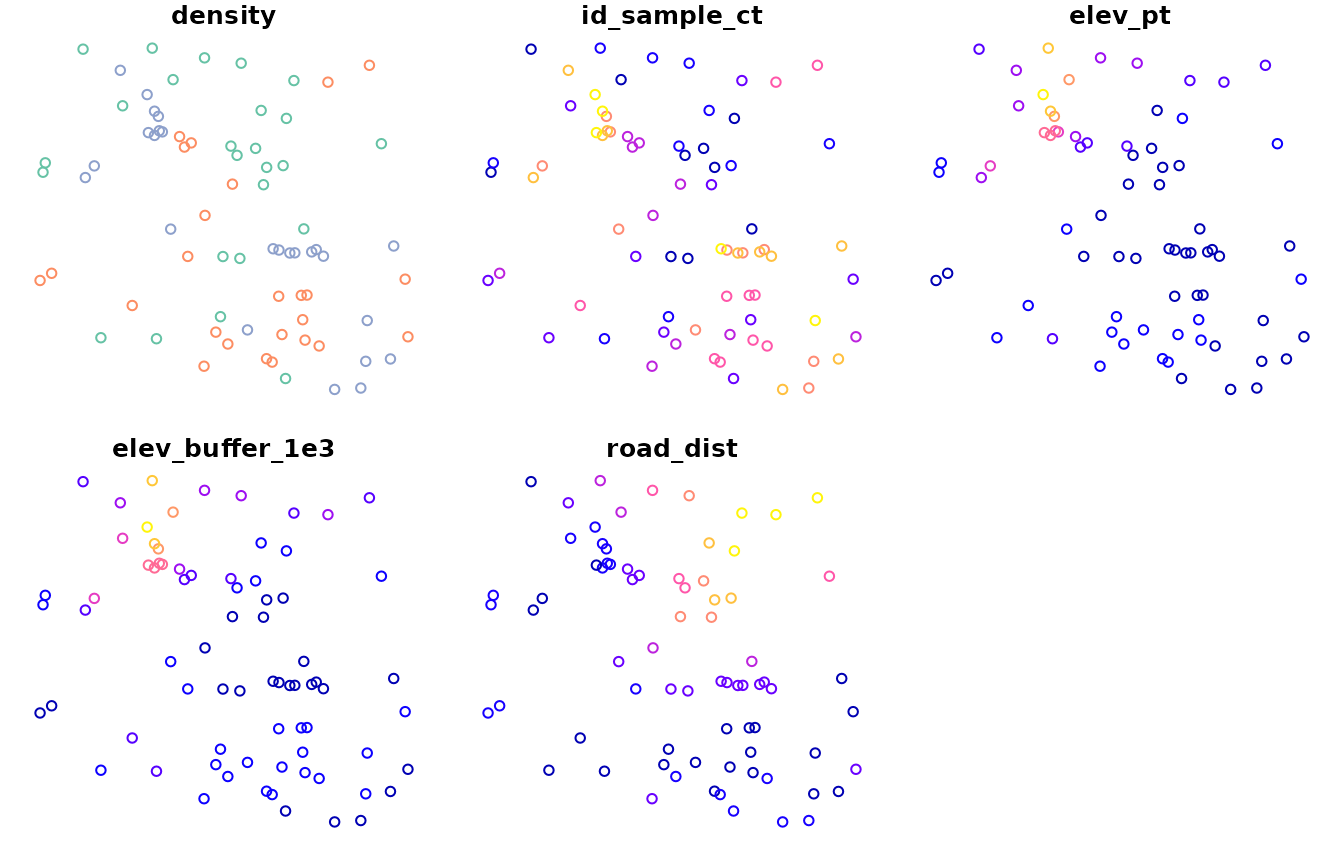
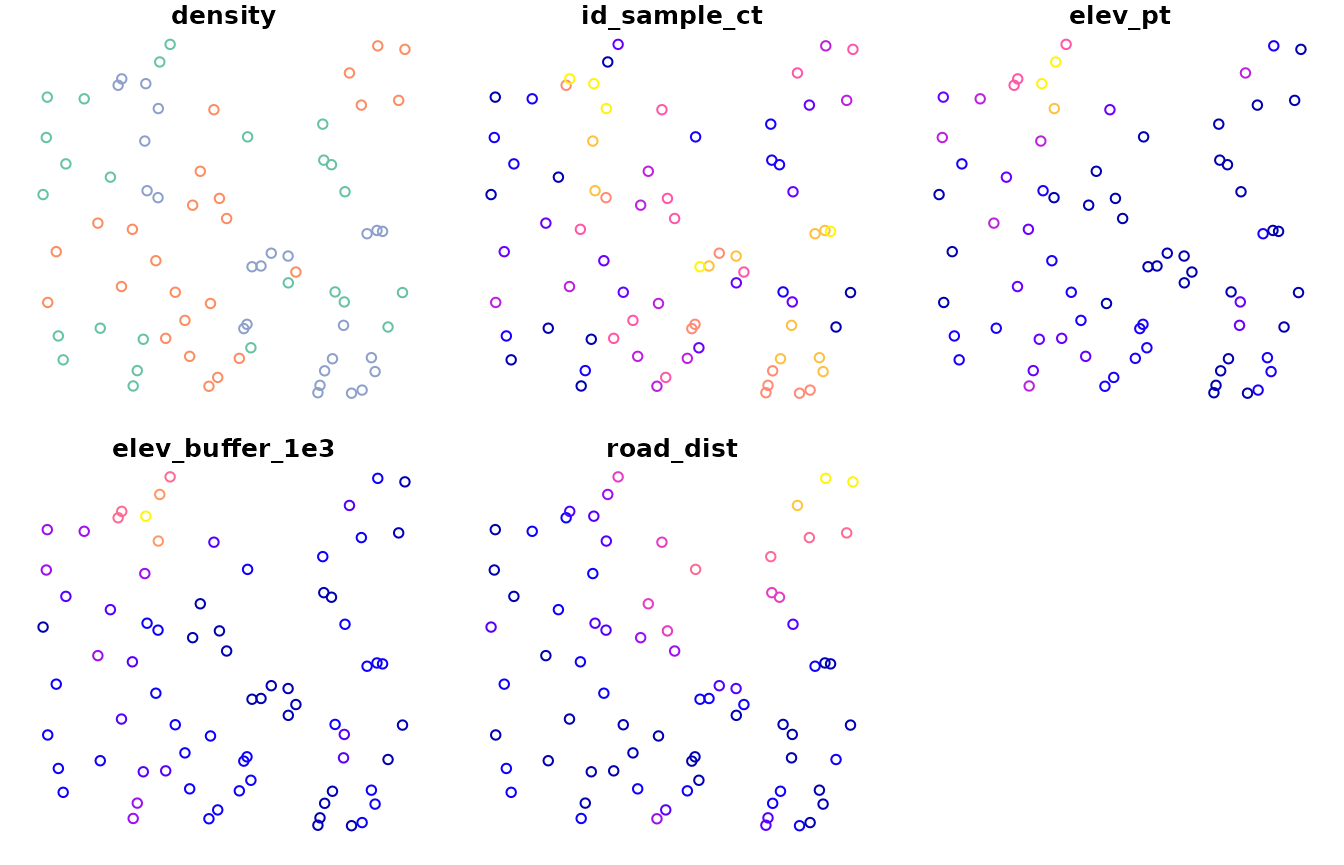
Deploying to gh-pages from @ robitalec/camtrapmonitoring@f2aa02580bea266181a167c2fda2fa1d0f5523f8 🚀

diff --git a/articles/intro-camtrapmonitoring.html b/articles/intro-camtrapmonitoring.html
@@ -279,33 +279,34 @@ and sorting candidate locations.</p>
 <span></span>
 <span><span class="va">order_select_pts</span> <span class="op">&lt;-</span> <span class="va">select_pts</span><span class="op">[</span><span class="va">ordered</span>,<span class="op">]</span></span>
 <span><span class="fu"><a href="https://rdrr.io/r/base/print.html" class="external-link">print</a></span><span class="op">(</span><span class="va">order_select_pts</span><span class="op">)</span></span>
-<span><span class="co">#&gt; Simple feature collection with 10 features and 8 fields</span></span>
+<span><span class="co">#&gt; Simple feature collection with 19 features and 8 fields</span></span>
 <span><span class="co">#&gt; Geometry type: POINT</span></span>
 <span><span class="co">#&gt; Dimension:     XY</span></span>
-<span><span class="co">#&gt; Bounding box:  xmin: 344748.9 ymin: 5978689 xmax: 373105.1 ymax: 5996332</span></span>
+<span><span class="co">#&gt; Bounding box:  xmin: 345435.6 ymin: 5975880 xmax: 374851.2 ymax: 6002167</span></span>
 <span><span class="co">#&gt; Projected CRS: WGS 84 / UTM zone 14N</span></span>
+<span><span class="co">#&gt; First 10 features:</span></span>
 <span><span class="co">#&gt;    density                 geometry id_sample_ct elev_pt elev_buffer_1e3</span></span>
-<span><span class="co">#&gt; 53     Low POINT (348600.8 5996332)           53     294        293.2693</span></span>
-<span><span class="co">#&gt; 67     Low POINT (347790.8 5995277)           67     285        278.3091</span></span>
-<span><span class="co">#&gt; 17    High POINT (354212.5 5980729)           17     273        274.8169</span></span>
-<span><span class="co">#&gt; 37  Medium POINT (344748.9 5986636)           37     260        259.6427</span></span>
-<span><span class="co">#&gt; 21    High POINT (349196.8 5980819)           21     267        265.2883</span></span>
-<span><span class="co">#&gt; 30  Medium POINT (359572.2 5981323)           30     268        264.1549</span></span>
-<span><span class="co">#&gt; 52     Low POINT (362429.5 5981525)           52     264        265.0350</span></span>
-<span><span class="co">#&gt; 29  Medium POINT (367415.1 5982445)           29     270        268.4580</span></span>
-<span><span class="co">#&gt; 54     Low POINT (373105.1 5978689)           54     259        260.3166</span></span>
-<span><span class="co">#&gt; 49  Medium POINT (367625.2 5980603)           49     266        265.5542</span></span>
-<span><span class="co">#&gt;    road_dist lc_pt hydro_dist wetland_dist</span></span>
-<span><span class="co">#&gt; 53 1034.0667     1   3993.650     4155.510</span></span>
-<span><span class="co">#&gt; 67 1679.9974     1   3457.218     4588.618</span></span>
-<span><span class="co">#&gt; 17 1576.7285     1   3132.298     7807.510</span></span>
-<span><span class="co">#&gt; 37 2868.5550     6   6256.412     8174.917</span></span>
-<span><span class="co">#&gt; 21 1648.0809     6   5119.895     8588.191</span></span>
-<span><span class="co">#&gt; 30 1303.5150     5   1522.973     9411.617</span></span>
-<span><span class="co">#&gt; 52 1229.5185     6   1812.440    11335.553</span></span>
-<span><span class="co">#&gt; 29  397.5230     5   1431.071    14198.485</span></span>
-<span><span class="co">#&gt; 54  488.1937     5   5202.039    15118.818</span></span>
-<span><span class="co">#&gt; 49 1450.2021     5   2882.766    15552.926</span></span></code></pre></div>
+<span><span class="co">#&gt; 26  Medium   POINT (355178 5987488)           26     270        268.4948</span></span>
+<span><span class="co">#&gt; 29  Medium POINT (349973.9 5990861)           29     285        283.7429</span></span>
+<span><span class="co">#&gt; 65     Low POINT (354187.8 5998225)           65     288        289.7754</span></span>
+<span><span class="co">#&gt; 34  Medium POINT (352093.7 5985170)           34     277        277.4647</span></span>
+<span><span class="co">#&gt; 61     Low POINT (374131.2 5989910)           61     261        263.2495</span></span>
+<span><span class="co">#&gt; 28  Medium POINT (356921.1 5984658)           28     261        261.5417</span></span>
+<span><span class="co">#&gt; 16    High POINT (347104.1 5996177)           16     269        273.1169</span></span>
+<span><span class="co">#&gt; 30  Medium POINT (346239.8 5988300)           30     260        261.7837</span></span>
+<span><span class="co">#&gt; 46  Medium POINT (357788.5 5982133)           46     267        265.1705</span></span>
+<span><span class="co">#&gt; 5     High POINT (354050.3 5980438)            5     275        276.2097</span></span>
+<span><span class="co">#&gt;     road_dist lc_pt hydro_dist wetland_dist</span></span>
+<span><span class="co">#&gt; 26 2774.07058     1 1861.46668     1960.820</span></span>
+<span><span class="co">#&gt; 29  972.79303     1 5797.01559     2246.728</span></span>
+<span><span class="co">#&gt; 65 2659.74974     1 2118.18358     2269.173</span></span>
+<span><span class="co">#&gt; 34 1391.05592     1 4439.60697     3517.056</span></span>
+<span><span class="co">#&gt; 61 2529.17964     6   92.59484     4200.977</span></span>
+<span><span class="co">#&gt; 28   81.18676     1  130.02211     5154.464</span></span>
+<span><span class="co">#&gt; 16 1030.59514     1 2529.62768     5479.958</span></span>
+<span><span class="co">#&gt; 30 2376.91611     5 7874.03421     6432.827</span></span>
+<span><span class="co">#&gt; 46  263.79756     6  763.74124     7690.023</span></span>
+<span><span class="co">#&gt; 5  1747.04087     1 3453.34390     8081.887</span></span></code></pre></div>
 </div>
 <div class="section level2">
 <h2 id="establishing-camera-trap-grids">Establishing camera trap grids<a class="anchor" aria-label="anchor" href="#establishing-camera-trap-grids"></a>
